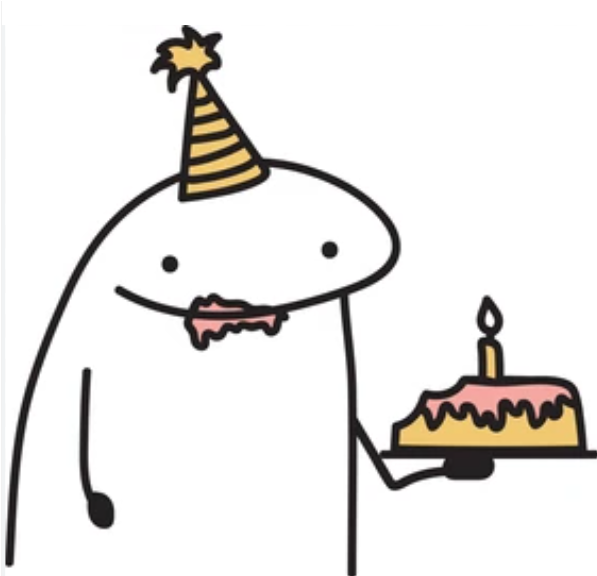
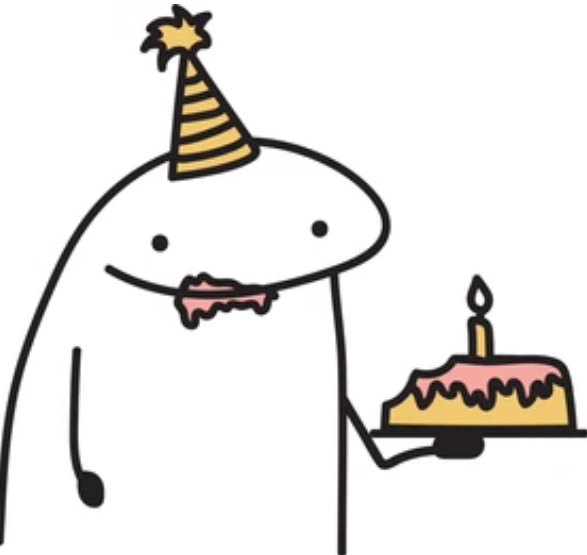
feature/preEntrega3 modificaciones

Changed region(s): [[0.0, 0.0, 1.0, 1.0], [0.092, 0.6126, 0.2147, 0.9189]]

diff --git a/pages/nosotros.html b/pages/nosotros.html
@@ -3,6 +3,9 @@
     <head>
         <meta charset="UTF-8">
         <meta name="viewport" content="width=device-width, initial-scale=1.0">
+        <meta name="description" content=" Realizamos pastelería de autor. Tenemos stock diario de tortas y ademas podes hacernos tu pedido personalizado. 
+                                           Contamos con local ubicado en Av. Montes de Oca 1105, CABA.">
+        <meta name="keywords" content="Pastelería, chocotorta, torta">
         <title> Nosotros | Pastelería Huli</title>
         <!-- fontawesome-->
         <script src="https://kit.fontawesome.com/13e182d6ae.js" crossorigin="anonymous"></script>
@@ -45,9 +48,9 @@
           </header> 
           <main class="container">
             <h1 class="tituloPrincipal"> Conocé nuestra historia </h1>
-            <section class="contenedor">
+            <section class="contenedorImagen">
                 <img class="imagen img-fluid img-thumbnail" src="../assets/img/frentehp.png" alt="imágen del frente del local de Pastelería Huli">
-                <div class="textoInfo">
+                <div class="textoNosotros contenedor">
                     <p> 
                         Pastelería Huli es un emprendimiento que nació en plena pandemia en el año 2020. 
                         <br> Comenzamos con conocimientos en pastelería, aunque con los materiales que teníamos en ese momento en la cocina de nuestra casa.
@@ -56,8 +59,8 @@
                     </p>    
                 </div>  
             </section>
-            <section class="contenedor">
-                <div class="textoInfo">
+            <section class="contenedorImagen">
+                <div class="textoNosotros contenedor">
                     <p>En nuestra pastelería buscamos siempre cómo sorprenderlos, y por eso es que combinamos sabores, texturas y presentación, 
                         utilizando siempre materias primas de primerísima calidad. </p>
                     <p> <span class="destacar">Nos gusta ofrecer un producto único, </span>
@@ -66,9 +69,9 @@
                 </div>
                 <img class="imagen img-fluid img-thumbnail" src="../assets/img/nosotros.jpg" alt="imágen, torta al frente chocotorta, detrás, a la izquierda un lemon pie y una torta oreo">
             </section>
-            <section class="contenedor">
+            <section class="contenedorImagen">
                 <img class="imagen img-fluid img-thumbnail" src="../assets/img/torta nos.jpeg" alt="imágen, torta al frente chocotorta, detrás, a la izquierda un lemon pie y una torta oreo">
-                <div class="textoInfo">
+                <div class="textoNosotros terceraimg">
                 <p> <span class="destacar">Nuestros pedidos son personalizados a gusto y elección de cada cliente. </span>
              Siempre damos lo mejor de nosotros en cada pedido para que salga todo tal y como esa persona lo soñó.</p>
              <p> También contamos a diario con un amplio stock de porciones de torta y pastelería de vitrina, para que puedas elegir lo que gustes.</p>

diff --git a/pages/contacto.html b/pages/contacto.html
@@ -3,6 +3,9 @@
     <head>
         <meta charset="UTF-8">
         <meta name="viewport" content="width=device-width, initial-scale=1.0">
+        <meta name="description" content=" Realizamos pastelería de autor. Tenemos stock diario de tortas y ademas podes hacernos tu pedido personalizado. 
+                                           Contamos con local ubicado en Av. Montes de Oca 1105, CABA.">
+        <meta name="keywords" content="Pastelería, chocotorta, torta">
         <title> Contacto | Pastelería Huli</title>
         <!-- fontawesome-->
         <script src="https://kit.fontawesome.com/13e182d6ae.js" crossorigin="anonymous"></script>
@@ -50,22 +53,22 @@
                 <h2 class="h2contacto"> Contáctanos para hacer tu pedido personalizado <br> o ante cualquier duda que tengas.</h2>
             </div>
             <!-- formulario-->
-            <form class="row g-3 formulario">
+            <form class="row g-3 formulario" action="404.html">
                 <div class="col-md-6">
                   <label for="inputNombre" class="form-label">Nombre</label>
-                  <input type="nombre" class="form-control" id="inputNombre1"  requiered placeholder="Pepito">
+                  <input requiered type="nombre" class="form-control" id="inputNombre1"  placeholder="Pepito">
                 </div>
                 <div class="col-md-6">
                   <label for="inputApellido" class="form-label">Apellido</label>
-                  <input type="apellido" class="form-control" id="inputPassword1" required placeholder="Perez">
+                  <input requiered  type="apellido" class="form-control" id="inputPassword1" placeholder="Perez">
                 </div>
                 <div class="col-12">
                   <label for="inputEmail" class="form-label">Email</label>
-                  <input type="email" class="form-control" id="inputEmail1" required placeholder="hulipasteleria@gmail.com">
+                  <input requiered type="email" class="form-control" id="inputEmail1"  placeholder="hulipasteleria@gmail.com">
                 </div>
                 <div class="col-12">
                  <label for="inputMensaje" class="form-label">Ingrese su mensaje</label>
-                 <textarea name="mensaje"class="form-control" id="mensaje" cols="70" rows="10" required placeholder="Ingresá tu mensaje acá"></textarea>   
+                 <textarea requiered name="mensaje" class="form-control" id="mensaje" cols="70" rows="10"placeholder="Ingresá tu mensaje acá"></textarea>   
                 </div> 
                 <div>
                   <input class="input-container" type="reset" name="limpiar" id="limpiar" value="Limpiar">

diff --git a/css/estilos.css b/css/estilos.css
@@ -16,24 +16,21 @@ body {
 
 .contenedor {
   display: flex;
-  justify-content: center;
 }
 
 .imagen {
-  margin-left: 30px;
   margin-bottom: 20px;
   margin-top: 20px;
   border-radius: 5px;
-  height: 350px;
-  width: 400px;
-  display: flex;
+  height: 400px;
+  width: 280px;
   justify-content: center;
   max-width: 100%;
 }
 
 .destacar {
   font-family: "Muli-Regular";
-  color: rgb(241, 11, 172);
+  color: black;
 }
 
 .h2index {
@@ -64,21 +61,20 @@ body {
 
 .textoContacto {
   margin-top: 20px;
-  font-size: 25px;
+  font-size: 16px;
   text-align: center;
-}
-
-.input-container {
-  margin-left: 60px;
-  margin-right: 10px;
-  margin-bottom: 10px;
 }
 
 .formulario {
   margin-top: 20px;
   background-color: #f7dee9;
-  width: 600px;
+  width: 400px;
   margin: 0 auto;
+}
+.formulario .input-container {
+  margin-left: 60px;
+  margin-right: 10px;
+  margin-bottom: 10px;
 }
 
 @font-face {
@@ -118,6 +114,27 @@ main {
   font-family: "Muli-Regular", sans-serif;
   color: black;
   margin-bottom: 50px;
+}
+
+.flork {
+  font-family: "Aleo-Italic-Variable" sans-serif;
+  text-align: center;
+  font-size: 25px;
+  color: black;
+}
+
+.contenedorImagen {
+  display: flex;
+  flex-direction: row;
+}
+
+.textoNosotros {
+  margin-left: 20px;
+  justify-content: center;
+}
+
+.terceraimg {
+  margin-top: 100px;
 }
 
 footer {
@@ -245,25 +262,18 @@ footer .wave#wave4 {
     height: 400px;
     margin: 0 auto;
   }
-  main .textoInfo {
-    font-size: 0.9rem;
-    margin: 50px;
-  }
-  main .contenedor {
-    flex-direction: column;
-  }
   main .formulario {
     margin-top: 20px;
     background-color: #f7dee9;
-    width: 300px;
+    width: 600px;
     margin: 0 auto;
   }
-  main .input-container {
+  main .formulario .input-container {
     font-size: 20px;
     margin: auto;
   }
   footer {
-    width: 1400px;
+    width: 1347px;
     height: 250px;
   }
 }

diff --git a/index.html b/index.html
@@ -3,6 +3,9 @@
    <head>
      <meta charset="UTF-8">
      <meta name="viewport" content="width=device-width, initial-scale=1.0">
+     <meta name="description" content=" Realizamos pastelería de autor. Tenemos stock diario de tortas y ademas podes hacernos tu pedido personalizado. 
+                                           Contamos con local ubicado en Av. Montes de Oca 1105, CABA.">
+     <meta name="keywords" content="Pastelería, chocotorta, torta, cheesecake, brownie, lemonpie">
      <title> Pastelería Huli </title>
       <!-- fontawesome-->
       <script src="https://kit.fontawesome.com/13e182d6ae.js" crossorigin="anonymous"></script>
@@ -44,7 +47,7 @@
         </nav>
       </header> 
       <main class="container ">
-          <h1 class="tituloPrincipal"> ¡Bienvenidos a Pastelería Huli! Donde los sueños dulces se hacen realidad. </h1>
+          <h1 class="tituloPrincipal"> ¡Bienvenidos a Pastelería Huli! <br>Donde los sueños dulces se hacen realidad. </h1>
           <section class="carrusel">
             <div id="carouselExampleIndicators" class="carousel slide" data-bs-ride="carousel">
               <div class="carousel-indicators">
@@ -54,7 +57,7 @@
               </div>
               <div class="carousel-inner container">
                 <div class="carousel-item active">
-                  <img src="./assets/img/¡Vení a conocernos!.png" class="d-block w-80" alt="Veni a conocer nuestra pastelería, 
+                  <img src="./assets/img/veni-a-conocernos.png" class="d-block w-80" alt="Veni a conocer nuestra pastelería, 
                   ubicada en Av. Montes de Oca 1105, CABA">
                 </div>
                 <div class="carousel-item">

diff --git a/pages/404.html b/pages/404.html
@@ -3,7 +3,10 @@
     <head>
         <meta charset="UTF-8">
         <meta name="viewport" content="width=device-width, initial-scale=1.0">
-        <title> Nosotros | Pastelería Huli</title>
+        <meta name="description" content=" Realizamos pastelería de autor. Tenemos stock diario de tortas y ademas podes hacernos tu pedido personalizado. 
+                                           Contamos con local ubicado en Av. Montes de Oca 1105, CABA.">
+        <meta name="keywords" content="Pastelería, chocotorta, torta">
+        <title> Pastelería Huli</title>
         <!-- fontawesome-->
         <script src="https://kit.fontawesome.com/13e182d6ae.js" crossorigin="anonymous"></script>
         <!--hojas de estilo-->
@@ -45,12 +48,10 @@
           </header> 
 
         <main class="container">
-            <h1 class="tituloPrincipal"> ERROR 404 </h1>
-            <h2> Ups! Parece que Flork se comió todo.</h2>
-            <img src="../assets/img/flork.png" alt="Flork, deformito, con un gorro de cumpleaños en su cabeza, comiendose una torta y con su cara manchada">
-            <p> Presiona aquí para volver al inicio </p>
-        
+            <h1 class="tituloPrincipal"> Ups! Parece que Flork se ha comido todo.</h1>
+            <img src="../assets/img/flork.png"  class="flork imagen" alt="Flork, deformito, con un gorro de cumpleaños en su cabeza, comiendose una torta y con su cara manchada">
         </main>
+        <p class="flork"> Utiliza el menú para redirigirte a una página.</p>
         <footer>
           <div>
               <div class="wave" id="wave1"> </div>

diff --git a/pages/info.html b/pages/info.html
@@ -3,6 +3,9 @@
     <head>
         <meta charset="UTF-8">
         <meta name="viewport" content="width=device-width, initial-scale=1.0">
+        <meta name="description" content=" Realizamos pastelería de autor. Tenemos stock diario de tortas y ademas podes hacernos tu pedido personalizado. 
+                                           Contamos con local ubicado en Av. Montes de Oca 1105, CABA.">
+        <meta name="keywords" content="Pastelería, chocotorta, torta">
         <title> Info | Pastelería Huli</title>
         <!-- fontawesome-->
         <script src="https://kit.fontawesome.com/13e182d6ae.js" crossorigin="anonymous"></script>
@@ -70,7 +73,7 @@
                <div>
                     <h2> ¿Cómo se conservan los productos?</h2>
                     <p> Si bien hay muchos productos que son aptos para conservar a temperatura ambiente, recomendamos mantenerlos siempre refrigerados y 
-                        sacarlos de la heladera un rato antes de consumir. No debemos olvidar que más allá de querer exponerlos en una mesa dulce para que 
+                        sacarlos de la heladera un rato antes de consumir. <br> No debemos olvidar que más allá de querer exponerlos en una mesa dulce para que 
                         estén visibles durante un festejo, estamos manipulando alimentos que serán consumidos por muchas personas y necesitan ser conservados 
                         de la forma más óptima para evitar la pérdida de la cadena de frío.</p>
                </div>

diff --git a/scss/_utilitarias.scss b/scss/_utilitarias.scss
@@ -13,22 +13,19 @@ body{
   }
   .contenedor {
     display: flex;
-    justify-content: center;
   }
   .imagen {
-    margin-left: 30px;
     margin-bottom: 20px;
     margin-top: 20px;
     border-radius: 5px;
-    height: 350px;
-    width: 400px;
-    display: flex;
+    height: 400px;
+    width: 280px;
     justify-content: center;
     max-width: 100%;
   }
   .destacar{
     font-family: "Muli-Regular";
-    color: rgb(241, 11, 172);
+    color: black;
   }
 
   .h2index {
@@ -55,18 +52,19 @@ body{
   
   .textoContacto{
     margin-top: 20px;
-    font-size: 25px;
+    font-size: 16px;
     text-align: center;
   }
-  .input-container { 
-    margin-left: 60px;
-    margin-right: 10px;
-    margin-bottom: 10px;
-  }
+ 
   .formulario{
     margin-top: 20px;
     background-color: #f7dee9;
-    width: 600px;
+    width: 400px;
     margin: 0 auto;
+    .input-container { 
+      margin-left: 60px;
+      margin-right: 10px;
+      margin-bottom: 10px;
+    }
   }
-  
+ 

diff --git a/scss/_footer.scss b/scss/_footer.scss
@@ -113,26 +113,20 @@ footer{
         height: 400px;
         margin:0 auto;
       }
-        .textoInfo {
-        font-size: 0.9rem;
-        margin: 50px;
-      }
-      .contenedor {
-        flex-direction: column; 
-      }
       .formulario{
         margin-top: 20px;
         background-color: #f7dee9;
-        width: 300px;
+        width: 600px;
         margin: 0 auto;
+        .input-container{
+          font-size: 20px;
+          margin: auto;
+         }
       }
-      .input-container{
-       font-size: 20px;
-       margin: auto;
-      }
+      
     }
     footer{
-      width: 1400px;
+      width: 1347px;
       height: 250px;
     } 
   }

diff --git a/pages/productos.html b/pages/productos.html
@@ -3,6 +3,9 @@
     <head>
         <meta charset="UTF-8">
         <meta name="viewport" content="width=device-width, initial-scale=1.0">
+        <meta name="description" content=" Realizamos pastelería de autor. Tenemos stock diario de tortas y ademas podes hacernos tu pedido personalizado. 
+                                           Contamos con local ubicado en Av. Montes de Oca 1105, CABA.">
+        <meta name="keywords" content="Pastelería, chocotorta, torta">
         <title> Productos | Pastelería Huli</title>
         <!-- fontawesome-->
         <script src="https://kit.fontawesome.com/13e182d6ae.js" crossorigin="anonymous"></script>

diff --git a/scss/_main.scss b/scss/_main.scss
@@ -3,3 +3,20 @@ main {
     color: black;
     margin-bottom: 50px;
   }
+  .flork{
+    font-family: "Aleo-Italic-Variable" sans-serif;
+    text-align: center;
+    font-size: 25px;
+    color: black;
+  }
+  .contenedorImagen{
+    display:flex ;
+    flex-direction: row;
+  }
+  .textoNosotros{
+    margin-left: 20px;
+    justify-content: center; 
+  }
+  .terceraimg{
+    margin-top: 100px;
+  }
